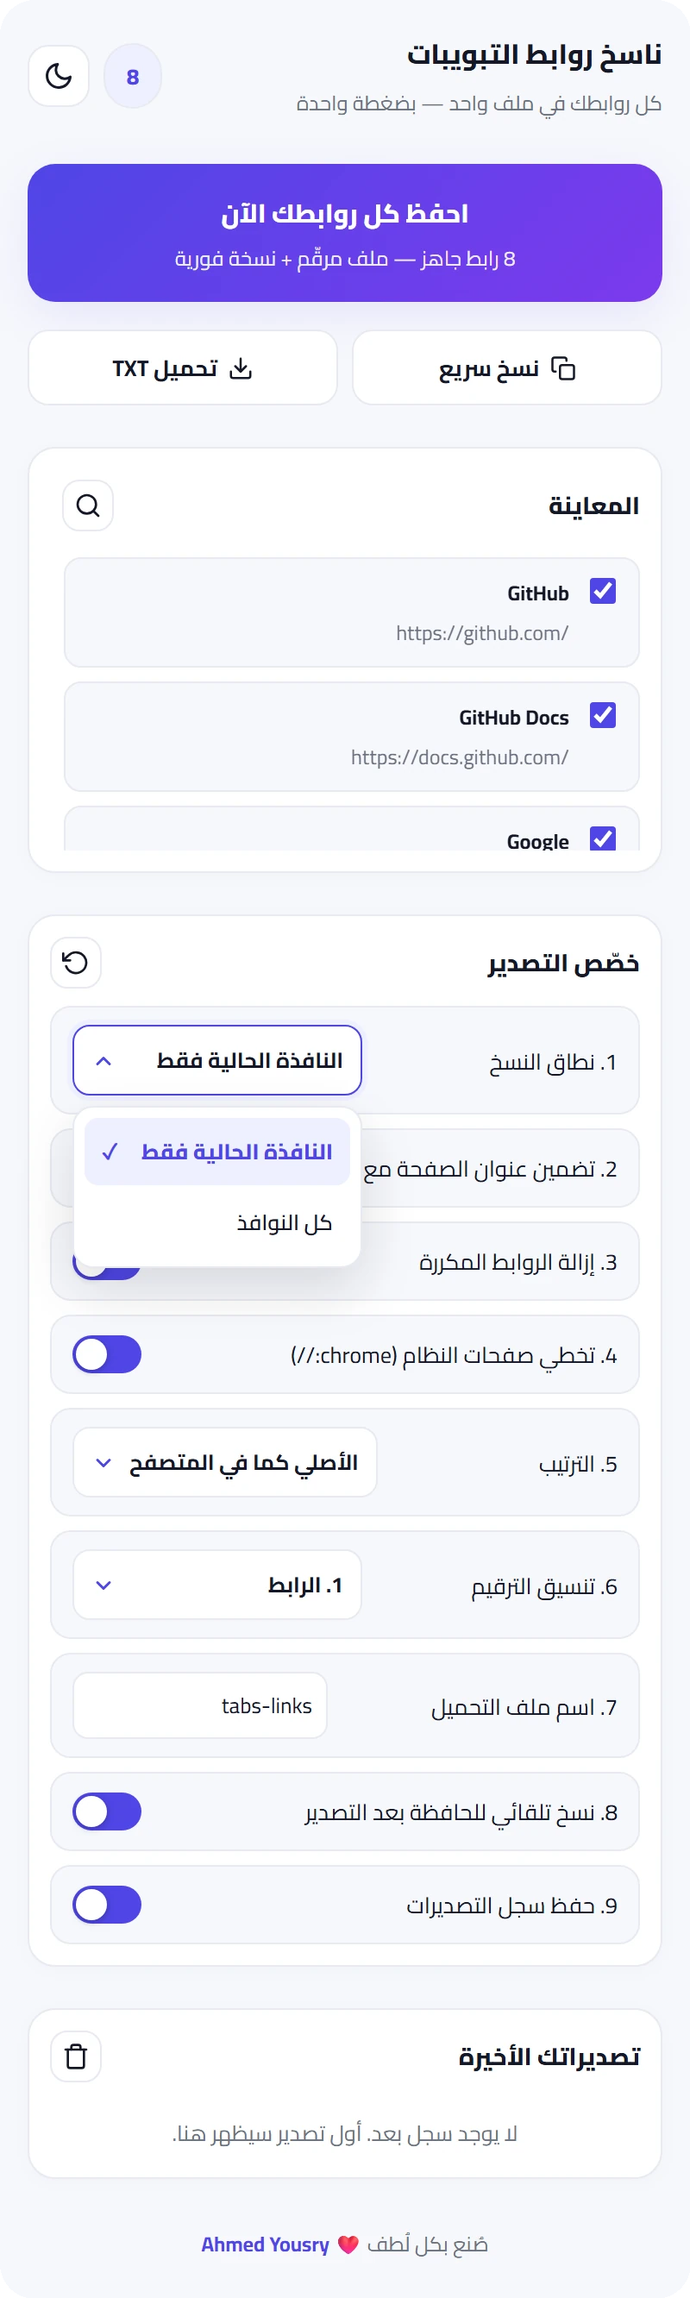
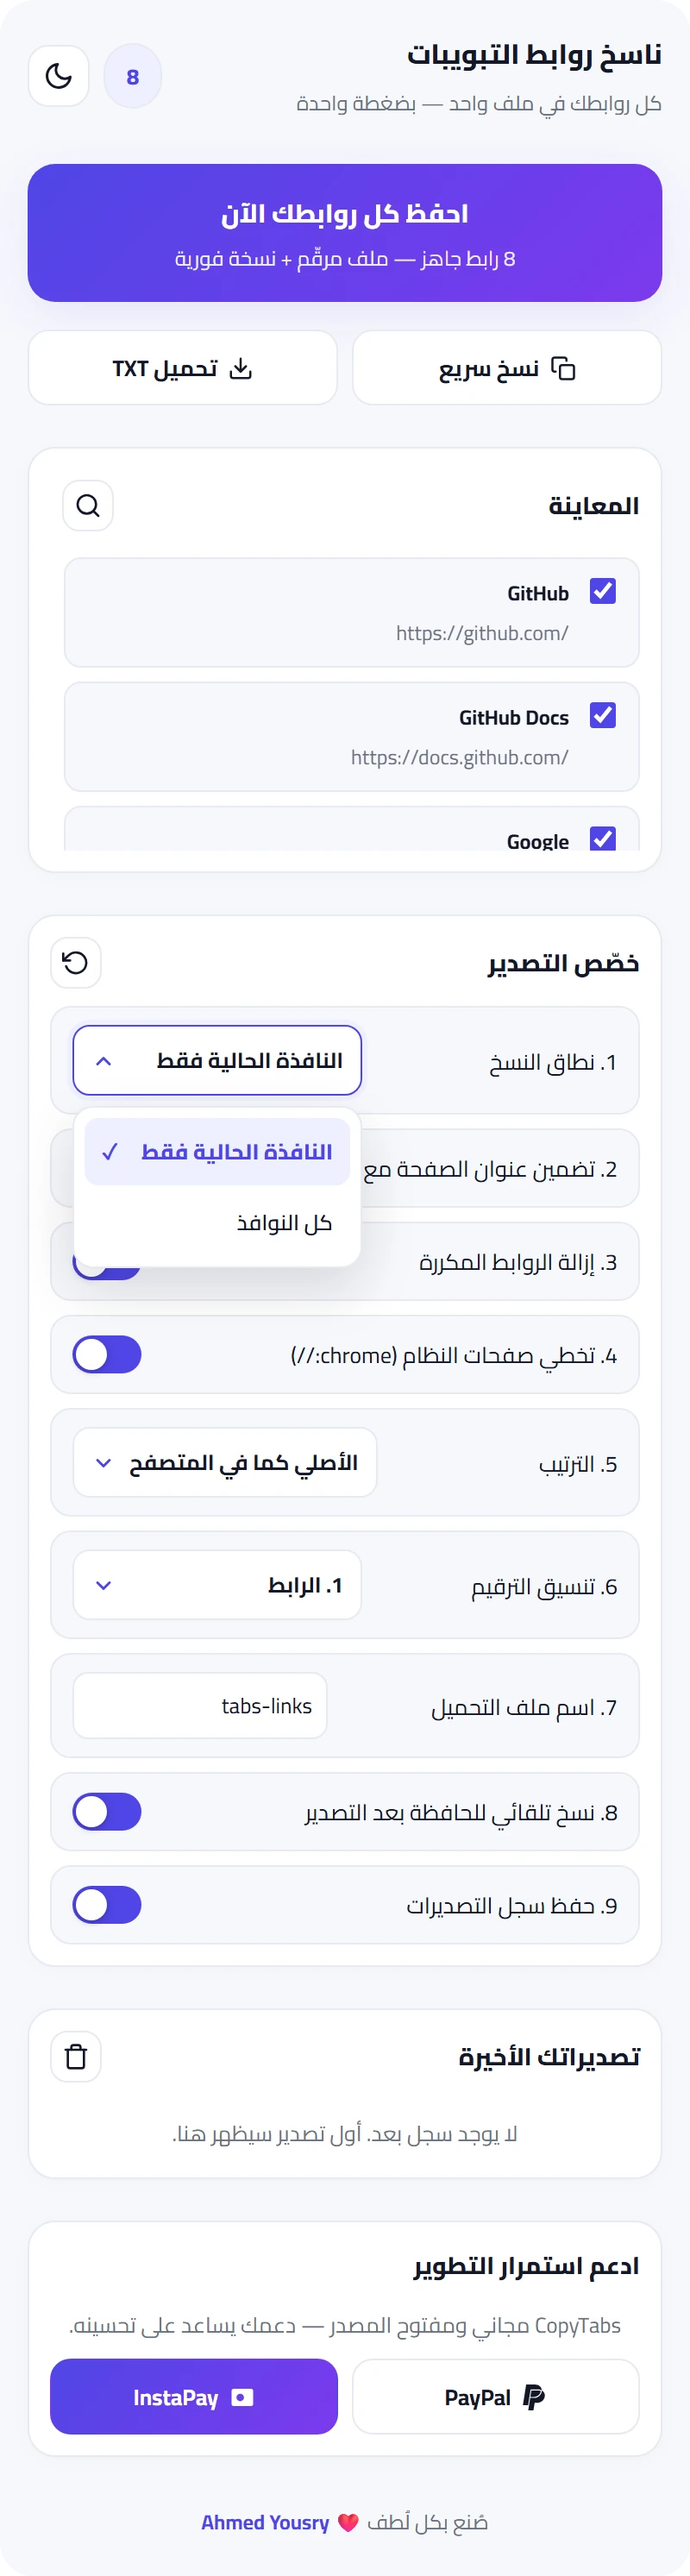
feat: support section with PayPal and highlighted InstaPay; refresh screenshots and README anatomy

diff --git a/popup.html b/popup.html
@@ -166,6 +166,18 @@
       <p id="historyEmpty" class="empty">لا يوجد سجل بعد. أول تصدير سيظهر هنا.</p>
     </section>
 
+    <!-- Support -->
+    <section class="card donate">
+      <div class="card-head">
+        <h2>ادعم استمرار التطوير</h2>
+      </div>
+      <p class="donate-text">CopyTabs مجاني ومفتوح المصدر — دعمك يساعد على تحسينه.</p>
+      <div class="quick-row">
+        <a class="ghost-btn" href="https://paypal.me/27medYousry" target="_blank" rel="noopener" aria-label="التبرع عبر PayPal" title="PayPal"><svg viewBox="0 0 24 24" width="15" height="15" fill="currentColor" aria-hidden="true"><path d="M15.607 4.653H8.941L6.645 19.251H1.82L4.862 0h7.995c3.754 0 6.375 2.294 6.473 5.513-.648-.478-2.105-.86-3.722-.86m6.57 5.546c0 3.41-3.01 6.853-6.958 6.853h-2.493L11.595 24H6.74l1.845-11.538h3.592c4.208 0 7.346-3.634 7.153-6.949a5.24 5.24 0 0 1 2.848 4.686M9.653 5.546h6.408c.907 0 1.942.222 2.363.541-.195 2.741-2.655 5.483-6.441 5.483H8.714Z"/></svg><span dir="ltr">PayPal</span></a>
+        <a class="ghost-btn donate-best" href="https://ipn.eg/S/el9a7rawi/instapay/30U5SS" target="_blank" rel="noopener" aria-label="التبرع عبر InstaPay" title="InstaPay — el9a7rawi@instapay"><svg viewBox="0 0 24 24" width="15" height="15" fill="currentColor" aria-hidden="true"><path fill-rule="evenodd" d="M2 6a2 2 0 0 1 2-2h16a2 2 0 0 1 2 2v12a2 2 0 0 1-2 2H4a2 2 0 0 1-2-2V6zm8 2.5a3.5 3.5 0 1 0 0 7 3.5 3.5 0 0 0 0-7z"/></svg><span dir="ltr">InstaPay</span></a>
+      </div>
+    </section>
+
     <footer class="footer">
       <span>صُنع بكل لُطف ❤ <span dir="ltr">Ahmed Yousry</span></span>
     </footer>

diff --git a/popup.css b/popup.css
@@ -108,6 +108,13 @@ h1 { font-size: 16px; margin: 0; font-weight: 800; }
 }
 .ghost-btn svg { flex-shrink: 0; }
 .ghost-btn:hover { border-color: var(--accent); color: var(--accent); }
+a.ghost-btn { text-decoration: none; }
+.donate-text { margin: 0 0 8px; font-size: 12.5px; color: var(--muted); text-align: center; }
+.donate-best {
+  background: linear-gradient(135deg, var(--primary), var(--primary-2));
+  border-color: transparent; color: #fff;
+}
+.donate-best:hover { border-color: transparent; color: #fff; filter: brightness(1.07); }
 .status { font-size: 12.5px; color: var(--success); margin: 8px 2px 0; font-weight: 700; min-height: 20px; }
 .status:empty { display: none; } /* لا مسافة فارغة بين الأزرار والمعاينة */
 .status.error { color: var(--danger); }
@@ -270,6 +277,6 @@ body[data-theme="dark"] ::-webkit-scrollbar-thumb {
 .cselect-option[aria-selected="true"] .cselect-check { visibility: visible; }
 
 /* Focus */
-button:focus-visible, input:focus-visible, select:focus-visible {
+button:focus-visible, input:focus-visible, select:focus-visible, a:focus-visible {
   outline: 2px solid var(--accent); outline-offset: 2px;
 }

diff --git a/README.md b/README.md
@@ -120,6 +120,13 @@
 
 صفحة إعدادات بنفس الخيارات وحفظ فوري، تُفتَح من تفاصيل الإضافة.
 
+### 3.8 ادعم استمرار التطوير
+
+<p align="center"><img src="assets/screenshots/section-donate.webp" width="400" alt="قسم الدعم" /></p>
+
+- CopyTabs مجاني ومفتوح المصدر — قسم اختياري لمن يريد دعم التطوير.
+- **InstaPay** بزر مميز و**PayPal** كبديل — الروابط تفتح في تبويب جديد، ولا تُرسل الإضافة أي بيانات.
+
 ---
 
 ## 4. عشر مميزات تتحكم في كل التفاصيل
